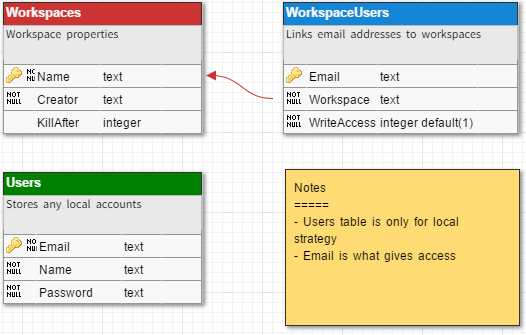
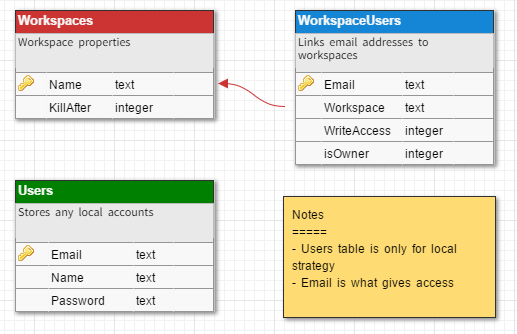
Updated Schema

diff --git a/queries.js b/queries.js
@@ -10,13 +10,19 @@ module.exports = {
         
         CREATE TABLE IF NOT EXISTS Workspaces (
         	Name text,
-        	Creator text,
         	KillAfter integer
         );
         
         CREATE TABLE IF NOT EXISTS WorkspaceUsers (
-        	Email text,
-        	Workspace text,
-        	WriteAccess integer
-        );`
+            Email text,
+	        Workspace text,
+	        WriteAccess integer,
+	        isOwner integer
+        );`,
+    getWorkspaces: `
+        SELECT * 
+        FROM WorkspaceUsers 
+        WHERE Email = ?;
+        `
+        
 };

diff --git a/workspaceManager.js b/workspaceManager.js
@@ -24,7 +24,15 @@ var Manager = function() {
 
 // Returns an array containing workspace objects for specific user
 Manager.prototype.getWorkspaces = function(user) {
-
+    // Return from workspaces cache if it exists
+    if (this.workspaces[user]) {
+        log.debug('Loading workspaces from cache for', user);
+        return this.workspaces[user];
+    }
+    // Try to fetch from DB otherwise
+    this.db.all(queries.userWorkspaces, [user], function(err, data) {
+        
+    });
 };
 
 // Returns workspace object

diff --git a/models/workspace.js b/models/workspace.js
@@ -19,6 +19,7 @@ var Workspace = {
     },
     'collaborators': { // Other users who can access the workspace
         type: Array,
+        required: true,
         schema: { // An array 
             type: Object,
             schema: { // Of objects
